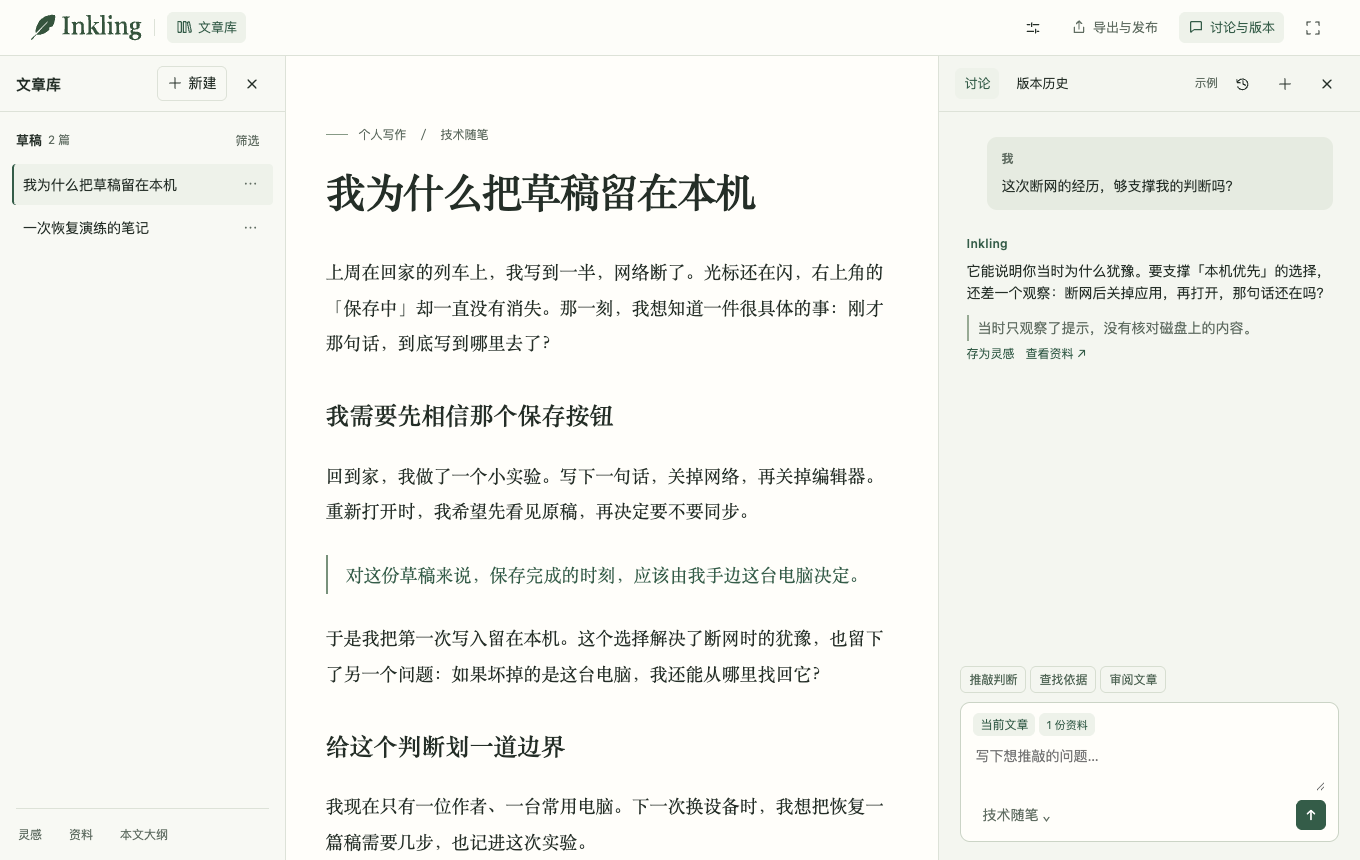
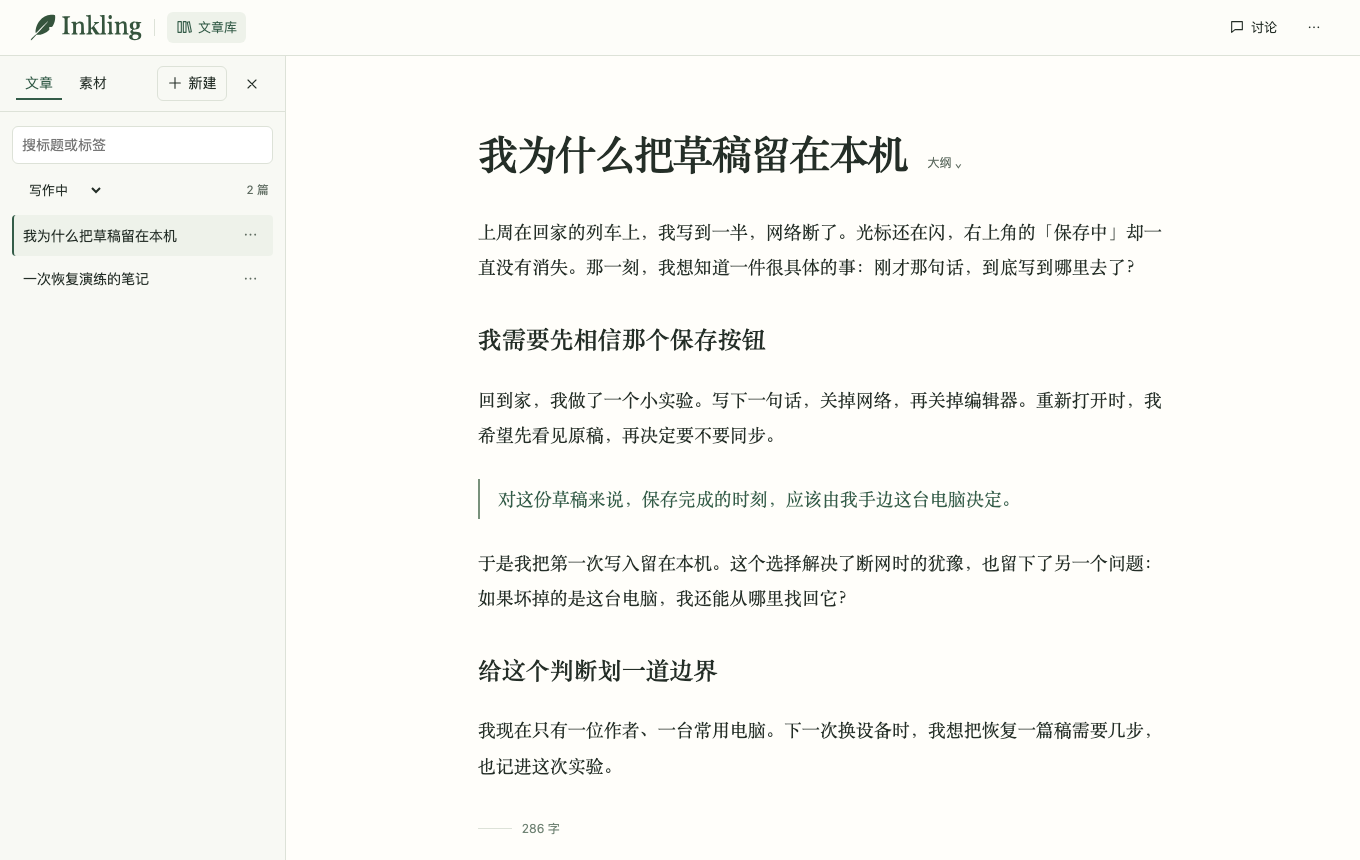
design: verify narrow-screen navigation and recovery, refresh prototype previews

diff --git a/docs/prototypes/inkling-writing-desk-v3.html b/docs/prototypes/inkling-writing-desk-v3.html
@@ -994,8 +994,8 @@
       </div>
     </header>
     <div class="capsule">
-      <span class="save-state" hidden
-        ><i class="dot"></i> <span class="save-label"></span></span
+      <button class="save-state" data-do="status" hidden>
+        <i class="dot"></i> <span class="save-label"></span></button
       ><button data-do="unfocus">退出专注</button>
     </div>
     <div class="layout">
@@ -2000,7 +2000,10 @@
         $('libraryRail').hidden = !leftVisible;
         $('rightRail').hidden = !rightVisible;
         $('libraryToggle').setAttribute('aria-expanded', String(leftVisible));
-        $('rightToggle').setAttribute('aria-expanded', String(rightVisible));
+        $('rightToggle').setAttribute(
+          'aria-expanded',
+          String(rightVisible && rightView !== 'history'),
+        );
         $('railTitle').textContent = {
           history: '版本历史',
           chats: '讨论历史',
@@ -3466,10 +3469,8 @@
           if (!e.isComposing && !composing && !$('panel').open) manualSave();
           return;
         }
-        if (
-          e.key === 'Escape' &&
-          document.querySelector('.library-popup:popover-open')
-        )
+        if (e.isComposing || composing || e.keyCode === 229) return;
+        if (e.key === 'Escape' && document.querySelector(':popover-open'))
           return;
         if (e.key === 'Escape' && !$('panel').open) {
           if (document.body.classList.contains('focus')) {

diff --git a/docs/validation/writing-desk-v3-task-review.md b/docs/validation/writing-desk-v3-task-review.md
@@ -1,6 +1,6 @@
 # 写作台 V3 原型评审
 
-2026-11-18，评审对象为提交 `11d2f66` 的[写作台 V3](../prototypes/inkling-writing-desk-v3.html)。本次走查了[首屏](../prototypes/inkling-writing-desk-v3.png)、[文章库](../prototypes/inkling-writing-desk-v3-library.png)和[版本比较](../prototypes/inkling-writing-desk-v3-history.png)，并用临时数据在 Node 中执行了原型的切稿、生成候选、采用、搜索和恢复处理逻辑。页面元素使用内存替身，未连接个人稿件、模型或博客。本地文件受内置浏览器访问限制，本轮未做浏览器点测、真实输入法测试或作者访谈。
+2026-11-18，评审对象为提交 `11d2f66` 的[写作台 V3](../prototypes/inkling-writing-desk-v3.html)。本次走查了[首屏](evidence/writing-desk-v3-11d2f66/inkling-writing-desk-v3.png)、[文章库](evidence/writing-desk-v3-11d2f66/inkling-writing-desk-v3-library.png)和[版本比较](evidence/writing-desk-v3-11d2f66/inkling-writing-desk-v3-history.png)，并用临时数据在 Node 中执行了原型的切稿、生成候选、采用、搜索和恢复处理逻辑。页面元素使用内存替身，未连接个人稿件、模型或博客。本地文件受内置浏览器访问限制，本轮未做浏览器点测、真实输入法测试或作者访谈。
 
 **结论：先修选区和撤回，再修切稿，最后调整版本入口。** 三项任务中，前两项会让作者重写或重找刚才的内容，第三项能完成，但要求作者知道版本放在哪里、怎样识别日期。
 

diff --git a/docs/prototypes/README.md b/docs/prototypes/README.md
@@ -9,6 +9,8 @@
 
 ### 当前界面
 
+[文章库](inkling-writing-desk-v3-library.png) · [素材](inkling-writing-desk-v3-materials.png) · [本文大纲](inkling-writing-desk-v3-outline.png) · [版本比较](inkling-writing-desk-v3-history.png) · [窄屏文章库](inkling-writing-desk-v3-mobile.png)
+
 首次打开直接显示稿纸。点「文章库」切换文章或看素材，点标题旁的「大纲」跳到对应章节，点「讨论」展开这篇文章的会话。再次切稿时，讨论输入草稿按会话留存。文章菜单「⋯」中有版本历史、导出文件、模拟发布、写作偏好、专注与保存状态。
 
 - **文章**：直接搜标题或标签，在「写作中」下拉框切换范围。行末「⋯」提供重命名、标签、归档和移入回收站。归档列表中的其他稿件后仍留在原范围，可撤销。回收站按原状态恢复。
@@ -21,7 +23,7 @@
 
 原型使用示例讨论、研究和博客发布，适合用演示内容体验。浏览器数据沿用原 V3 存储键。正式产品行为见 Living Spec；C03 真实输入法验收单独记录。
 
-交互回归入口：`node --test tests/prototypes/writing-desk.test.cjs`。测试在隔离的 Chromium 浏览器上下文中运行。
+交互回归入口：`node --test tests/prototypes/writing-desk.test.mjs`。测试在隔离的 Chromium 浏览器上下文中运行。本次 4 组回归通过，覆盖 1360 像素桌面和 375 像素窄屏、旧笔记迁移，以及专注模式下存储失败时下载最新正文。
 
 ## 上一版 · V2
 

diff --git a/docs/validation/writing-desk-v3-library-review.md b/docs/validation/writing-desk-v3-library-review.md
@@ -1,6 +1,6 @@
 # 写作台 V3：文章库、灵感、资料与本文大纲评审
 
-**建议保留文章库和可追溯的资料，取消独立的「灵感」页面，把本文大纲移回稿纸。** 灵感需要随时记，资料需要在写作时找得到，大纲需要跳到眼前文章的某一节。现在三个入口并排在文章库底部，作者每次都要先想到「打开文章库」。此外，读大纲会改变讨论选段，整理另一篇稿会切换列表，这两处隐含的动作比多一个按钮更容易打断写作。[当前文章库截图](../prototypes/inkling-writing-desk-v3-library.png)
+**建议保留文章库和可追溯的资料，取消独立的「灵感」页面，把本文大纲移回稿纸。** 灵感需要随时记，资料需要在写作时找得到，大纲需要跳到眼前文章的某一节。现在三个入口并排在文章库底部，作者每次都要先想到「打开文章库」。此外，读大纲会改变讨论选段，整理另一篇稿会切换列表，这两处隐含的动作比多一个按钮更容易打断写作。[当前文章库截图](evidence/writing-desk-v3-11d2f66/inkling-writing-desk-v3-library.png)
 
 ## 四项能力在 V1 的位置
 
